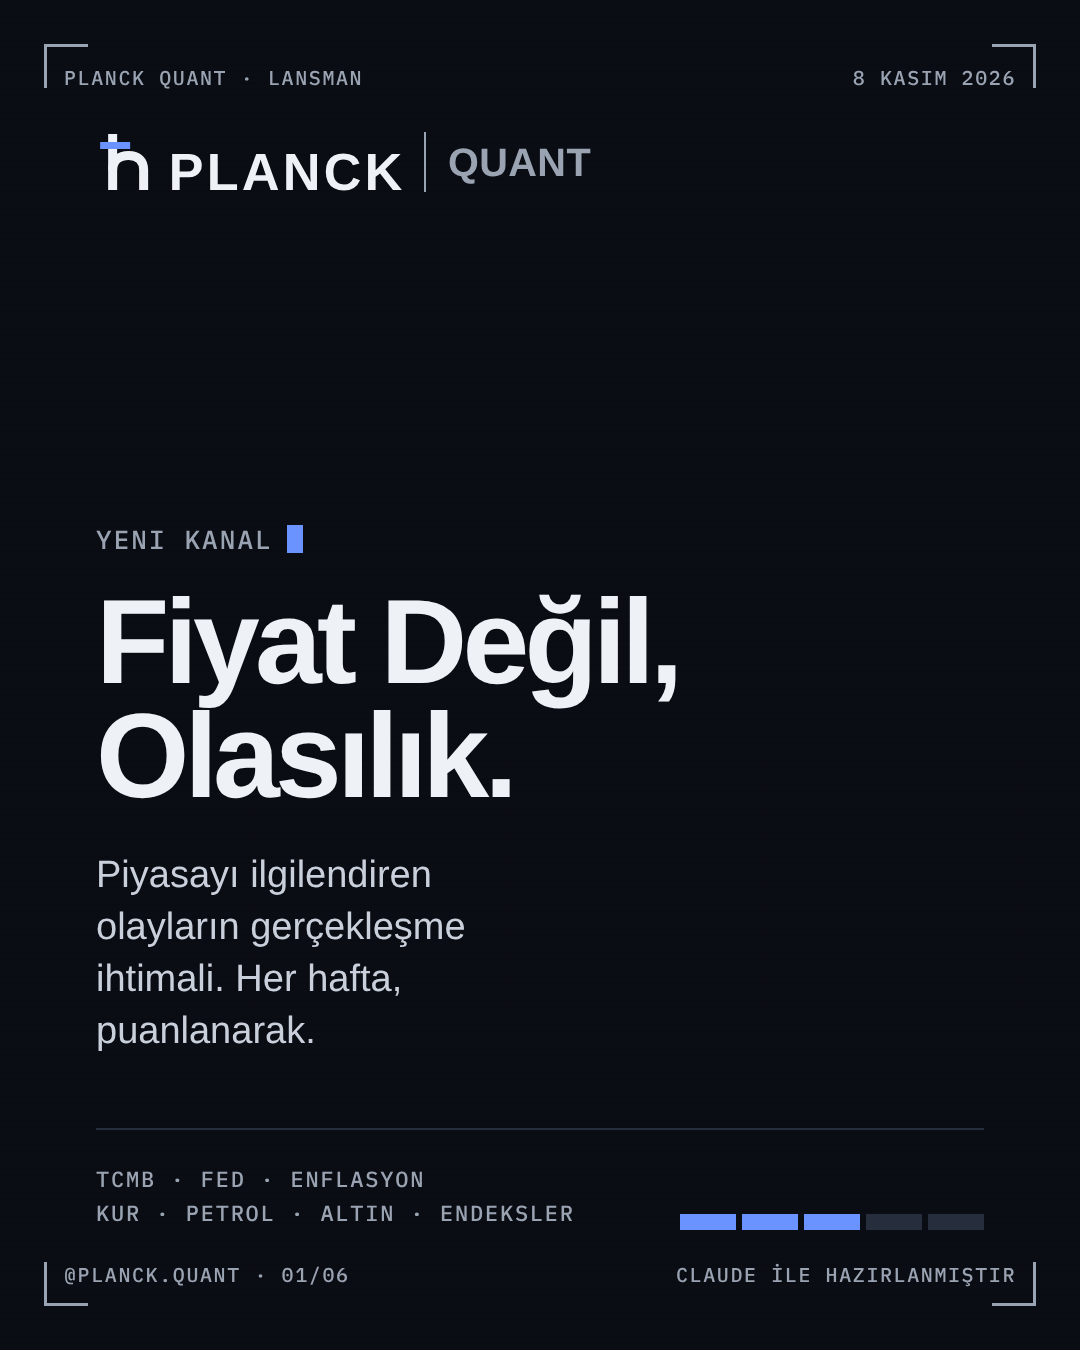
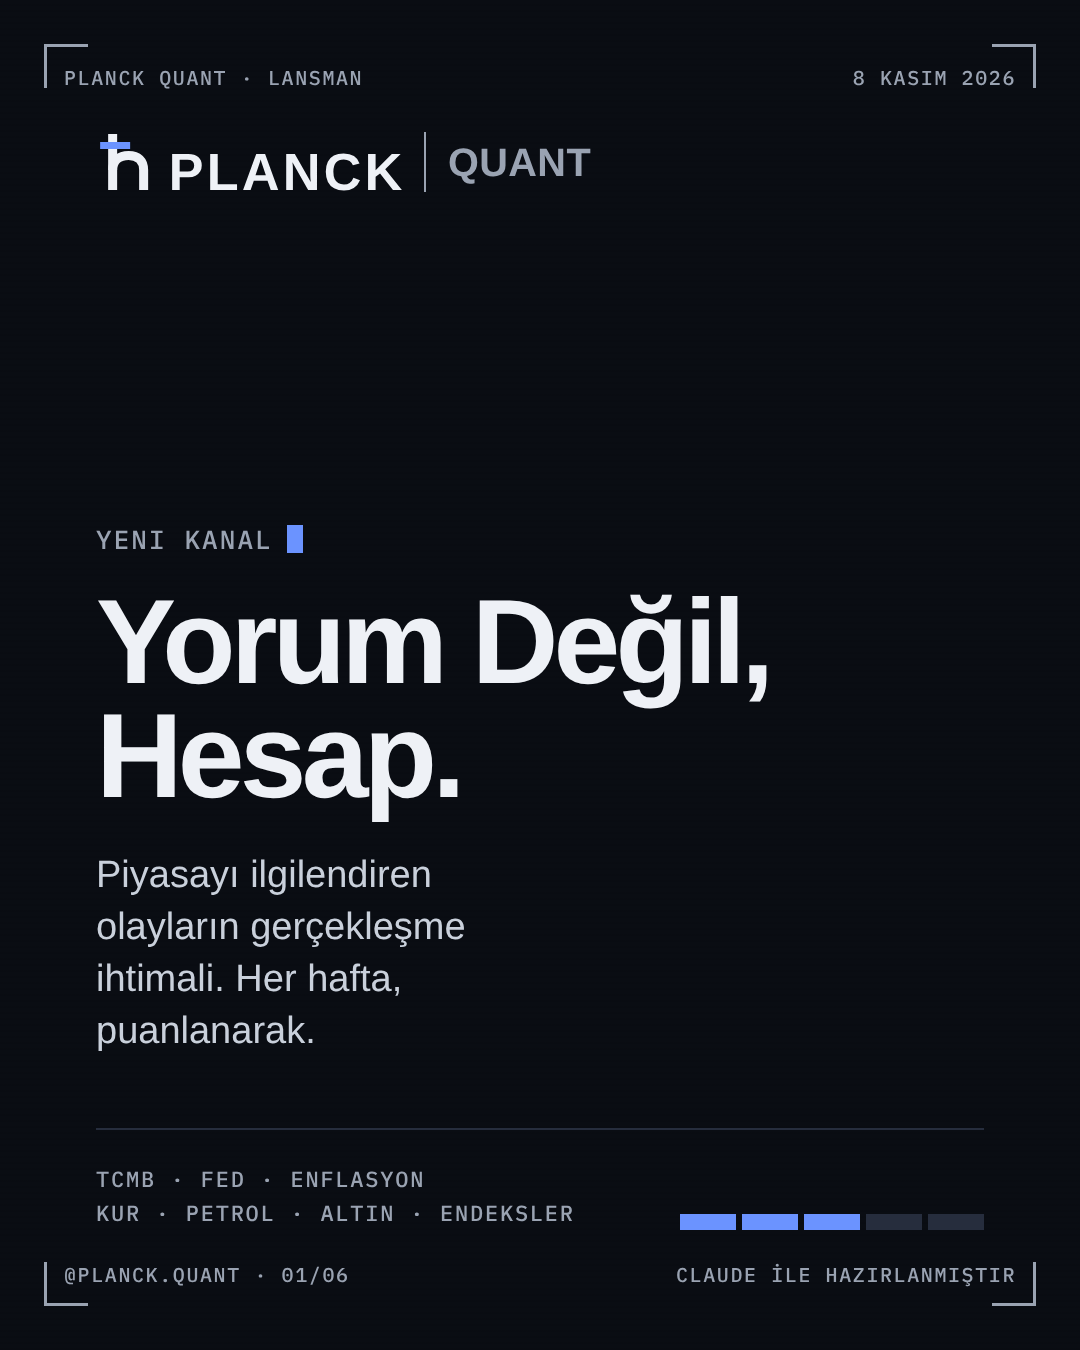
Quant sloganı: Yorum değil, hesap.
Claude-Session: https://claude.ai/code/session_01QCGPWJJC6juFjd743twhsh

Changed region(s): [[0.0917, 0.4356, 0.7333, 0.6222]]

diff --git a/quant/design.js b/quant/design.js
@@ -37,7 +37,7 @@ const row = (f, n) => { const [lv, lab] = band(f.p); const dl = f.deadline.split
 const F = Q.forecasts, S = [];
 // 1 Kapak
 S.push(frame(`<div>${qlock(64)}</div>
-<div style="margin-top:auto"><div class="eb mono">Yeni kanal<b></b></div><h1 style="margin-top:28px">Fiyat Değil,<br>Olasılık.</h1>
+<div style="margin-top:auto"><div class="eb mono">Yeni kanal<b></b></div><h1 style="margin-top:28px">Yorum Değil,<br>Hesap.</h1>
 <p class="b" style="margin-top:36px;max-width:22ch;font-size:38px;line-height:52px">Piyasayı ilgilendiren olayların gerçekleşme ihtimali. Her hafta, puanlanarak.</p></div>
 <div style="margin-top:72px;display:flex;align-items:flex-end;justify-content:space-between;border-top:2px solid ${DIM};padding-top:32px">
 <div class="mono" style="font-size:22px;line-height:34px;color:${MUT}">TCMB · Fed · Enflasyon<br>Kur · Petrol · Altın · Endeksler</div>${meter(3,56,16)}</div>`, 1));

diff --git a/QUANT.md b/QUANT.md
@@ -4,7 +4,7 @@
 
 - Kanal: Instagram **@planck.quant** · Web: **planck.news/quant**
 - Üst slogan (değişmez): *Bilginin bittiği yerde tahmin başlar.*
-- Kanal sloganı: **Fiyat değil, olasılık.**
+- Kanal sloganı: **Yorum değil, hesap.** "Hesap" iki anlamlıdır: rakamla hesaplamak ve tuttu mu tutmadı mı diye hesap vermek (karne).
 - Ad: "Quant" hem kuantumu (Max Planck) hem de sayısal yatırım analistini anlatır: duyguyla değil, modelle çalışan.
 
 ## 1. Yasal çizgi (SPK uyumu) — pazarlık konusu değil
@@ -78,7 +78,7 @@ Ana Planck kurallarının hepsi geçerlidir: üçüncü şahıs, resmi, tarafsı
 Planck tasarım sisteminin aynısı; ayrı bir renk yok. Quant'ı ayıran üç şey:
 
 1. **Kilit logo:** ħ işareti + PLANCK + ince dikey çizgi + **QUANT** (Helvetica Bold, PLANCK ile aynı harf yüksekliği, `on-void-muted` gri). Ana marka beyaz, alt kanal gri: hiyerarşi rengiyle değil tonuyla kurulur.
-2. **Profil:** `void` zemin üzerinde ħ işareti, altında 5 dilimli olasılık göstergesi (3 dolu). Yazı yok; küçük boyutta yazı okunmaz, gösterge okunur. Kanal adı Instagram'da profil adında zaten yazar. Gösterge "fiyat değil, olasılık" fikrinin sembolüdür ve ana Planck profilinden tek bakışta ayırır.
+2. **Profil:** `void` zemin üzerinde ħ işareti, altında 5 dilimli olasılık göstergesi (3 dolu). Yazı yok; küçük boyutta yazı okunmaz, gösterge okunur. Kanal adı Instagram'da profil adında zaten yazar. Gösterge olasılık fikrinin sembolüdür ve ana Planck profilinden tek bakışta ayırır.
 3. **Kartlarda üst satır:** `PLANCK QUANT · <TÜR>` ve alt satır `@PLANCK.QUANT`. Kartta her zaman **son tarih** ve **"Yatırım tavsiyesi değildir"** satırı bulunur.
 
 `signal` turuncusu yalnızca "Etki: Çok yüksek" ve FLAŞ etiketi içindir. Fiyat yükseldi/düştü için yeşil-kırmızı kullanılmaz.
